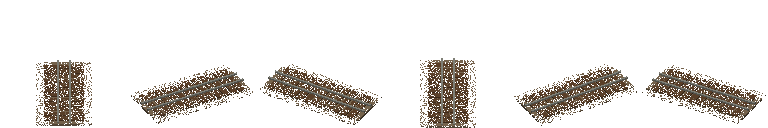
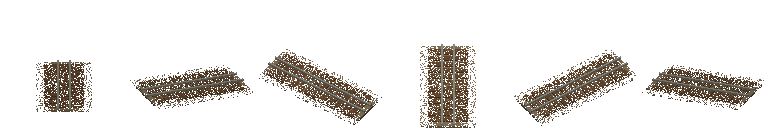
rail_060_tracks: fix flat slope sprites
engine_z_per_step lifted by 1 raster unit (~2 px) instead of one
engine height step (~16 px), so build_axis_slope tilted the rail
imperceptibly and the baked sprites looked like flat track.  Engine
callers feed `z * TILE_HEIGHT_STEP` into hex_height_raster_scale_y;
mirror that here.

https://claude.ai/code/session_01JqTChKzXbjWMK3ywkp9wth

diff --git a/tools/3d/render.py b/tools/3d/render.py
@@ -43,7 +43,7 @@ import numpy as np
 from PIL import Image
 
 from hex_synth import (
-    DEFAULT_W, HexGeom, hash_noise01, hex_height_raster_scale_y
+    DEFAULT_W, HEIGHT_STEP, HexGeom, hash_noise01, hex_height_raster_scale_y
 )
 
 # --- Camera / projection -----------------------------------------------------
@@ -103,10 +103,12 @@ def engine_z_per_step(height_step: int = 1, w: int = DEFAULT_W) -> float:
     """World-z value whose hex projection lifts the screen by `height_step`
     engine height steps.  A bespoke render that wants its sloped sprite
     to align with the engine's ground rendering tilts world-z by this
-    amount across one height-step's worth of slope; matches
-    `hex_height_raster_scale_y` divided by HEX_Z_SCALE.
+    amount across one height-step's worth of slope.  Engine callers
+    pass `z * TILE_HEIGHT_STEP` into `hex_height_raster_scale_y` (see
+    `display/viewport.cc`); we mirror that here — a height_step of 1
+    is `HEIGHT_STEP` raster units, ~16 px lift at W=128.
     """
-    return hex_height_raster_scale_y(height_step, w) / HEX_Z_SCALE
+    return hex_height_raster_scale_y(height_step * HEIGHT_STEP, w) / HEX_Z_SCALE
 
 
 def hex_plan_clip(wx: np.ndarray, wy: np.ndarray, radius: float = 0.5,
